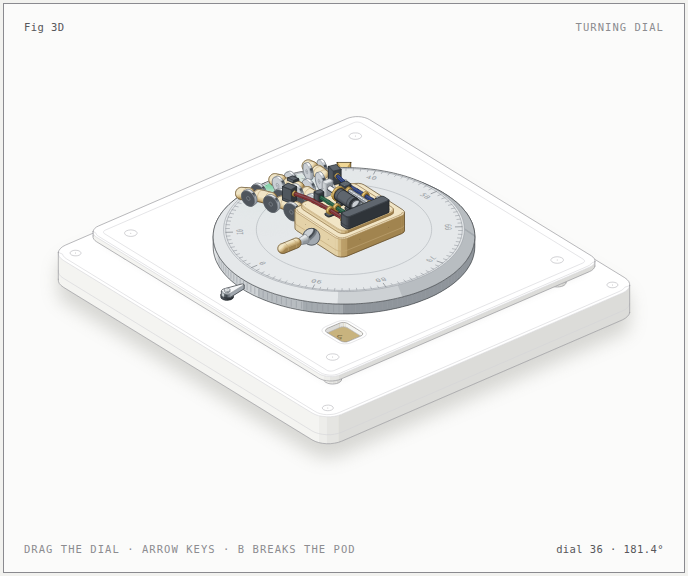
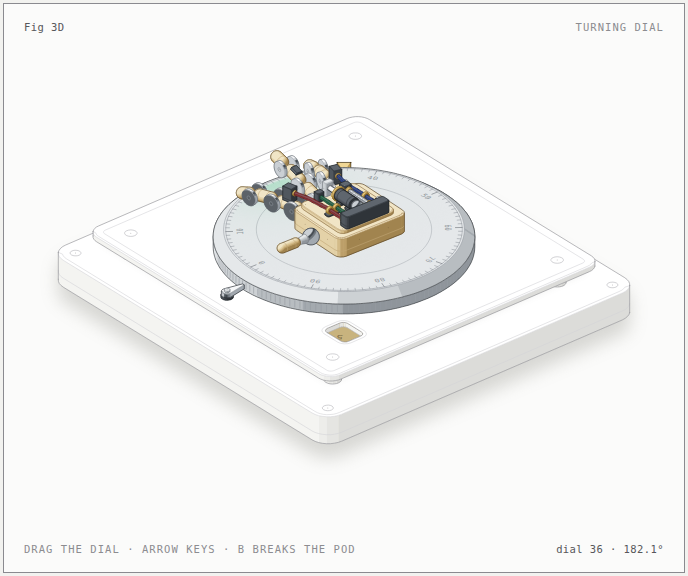
wip: hevi-anatup uncommitted state 20261017 (was on feat/anatomy-upstream @ 89a225b2); tracked mods + 1 untracked source files

diff --git a/ANATOMY_UP_TASK.md b/ANATOMY_UP_TASK.md
@@ -1,0 +1,11 @@
+# Anatomy 上游补齐（worker brief）
+上游：https://github.com/wheresryan22/anatomy（MIT）。Hevi 已在 third_party/anatomy 引入 kit 2D 部分（iso-kit/lathe/tube/gl/audit/canvas-painter）和少量 scripts，能力在 hevi/capabilities/anatomy_explainer。
+先 git clone 上游到 .tmp/anatomy-up，对比后补齐有价值部分，保留 LICENSE/NOTICE 署名并记录上游 commit：
+1. 3D 模式：kit/turn.mjs、turn-build.mjs、turn-audit.mjs，接入 anatomy_explainer（mode=3d），至少 1 个可转动示例。
+2. 核验脚本：scripts/capture.mjs、drive.mjs（截图+动作联系表）、lines.mjs（悬空线检查）、turn-check.mjs；用本机 Chromium headless（CPU，无 GPU 用 SwiftShader），接入渲染后自检，失败给出明确错误。
+3. references/ 工艺规则（craft/kit/motion/verify/webgl/3d）放入 third_party，并把关键规则落成 renderer 的生成约束/提示。
+4. 示例：至少引入 dial-indicator、ripple-tank、turning-dial 三个，作为回归基准（构建产物字节稳定或截图可比）。
+5. 视频化：任一示例经 drive.mjs 录帧→ffmpeg 出 ≥10 秒 mp4，ffprobe 验时长。
+不引 React 部分（Hevi 不用）。CPU-only，不调付费 API，不 push/合并/部署，不删 worktree 外文件，/data<5G 停。
+测试：每项真实测试（禁止 mock 渲染结果），全量回归相对基线无新增失败。
+报告 audit/anatomy_up/REPORT.md，末行 `ANATUP-FINAL DONE <commit>` 或 `ANATUP-FINAL BLOCKED <原因>` 并 commit。
